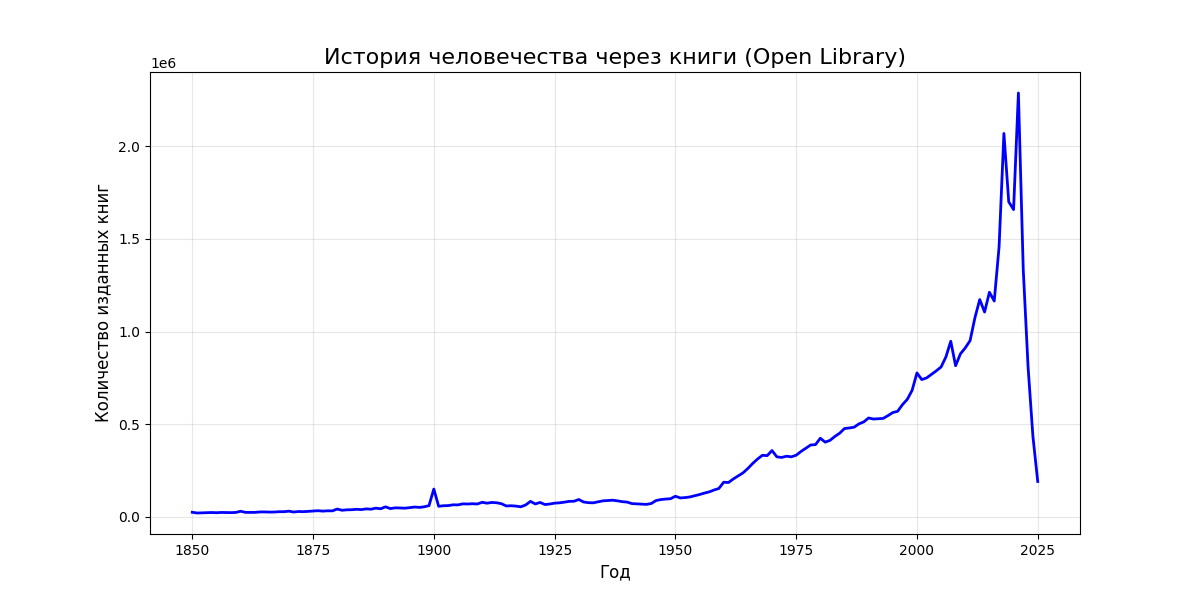
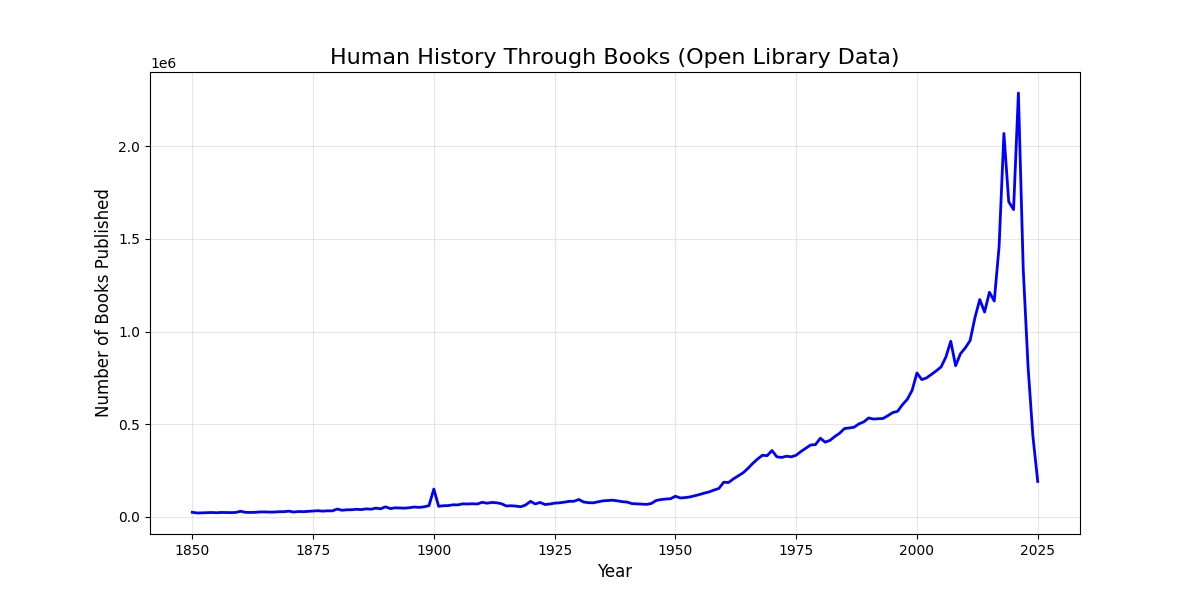
Fix: Translate chart labels to English

Changed region(s): [[0.2775, 0.06, 0.7708, 0.12], [0.0617, 0.3, 0.0925, 0.72], [0.4933, 0.93, 0.5242, 0.96]]

diff --git a/visualization.py b/visualization.py
@@ -1,36 +1,36 @@
 import pandas as pd
-import matplotlib.pyplot as plt # Plotting library
+import matplotlib.pyplot as plt
 
-print("🧹 Starting the data cleanup process...")
+print("🧹 Starting data cleaning and visualization...")
 
-# 1. Read the result
+# 1. Load the aggregated dataset
 df = pd.read_csv('final_timeline.csv')
 
-# 2. Convert the year column to numbers
+# 2. Convert year to numeric, coercing errors to NaN
 df['year'] = pd.to_numeric(df['year'], errors='coerce')
 
-# 3. Common Sense Filter
-# Filtering books from the industrial era (1850) to the current day (2025/2026)
-# This removes typos like year '0' or '2999'
+# 3. Apply sanity check filter (exclude future dates and ancient history)
+# We focus on the period from 1850 to 2025
 clean_df = df[ (df['year'] >= 1850) & (df['year'] <= 2025) ].copy()
 
-# 4. Sort by year (from past to present)
+# 4. Sort by year
 clean_df = clean_df.sort_values('year')
 
-print("\n--- TOP 10 MOST PRODUCTIVE YEARS ---")
-# Sort by number of books to see the record holders
+print("\n--- TOP 10 YEARS BY BOOK COUNT ---")
 print(clean_df.sort_values('books_count', ascending=False).head(10))
 
-print("\n--- GENERATING PLOT ---")
-# Drawing a simple graph directly in the code
+print("\n--- GENERATING CHART ---")
 plt.figure(figsize=(12, 6))
 plt.plot(clean_df['year'], clean_df['books_count'], color='blue', linewidth=2)
 
-plt.title('Human History Through Books (Open Library Data)', fontsize=16)
+# English labels
+plt.title('World Book Publication History (Open Library)', fontsize=16)
 plt.xlabel('Year', fontsize=12)
 plt.ylabel('Number of Books Published', fontsize=12)
 plt.grid(True, alpha=0.3)
 
-# Save the image
+# Formatting large numbers on Y-axis (optional, makes it cleaner)
+plt.ticklabel_format(style='plain', axis='y')
+
 plt.savefig('history_chart.png')
 print("🖼 Chart saved to 'history_chart.png'. Check it out!")
